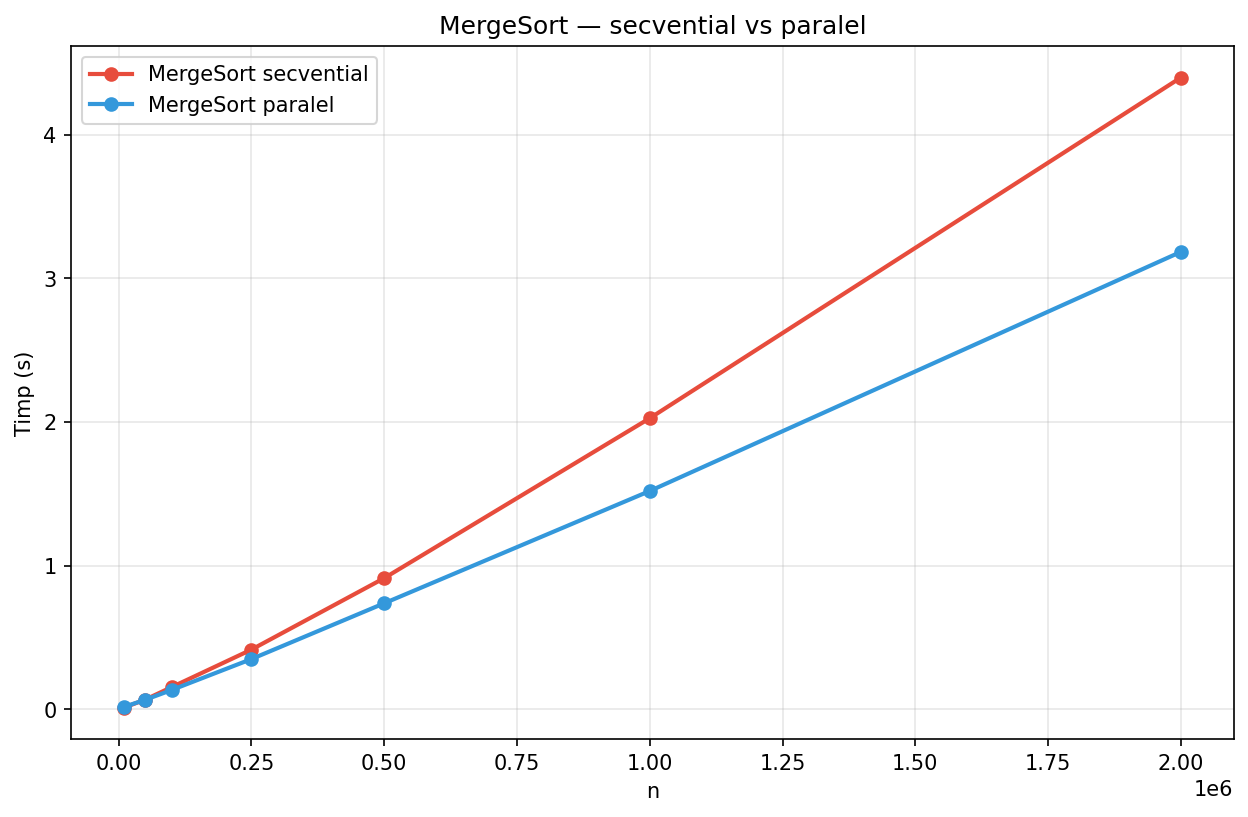
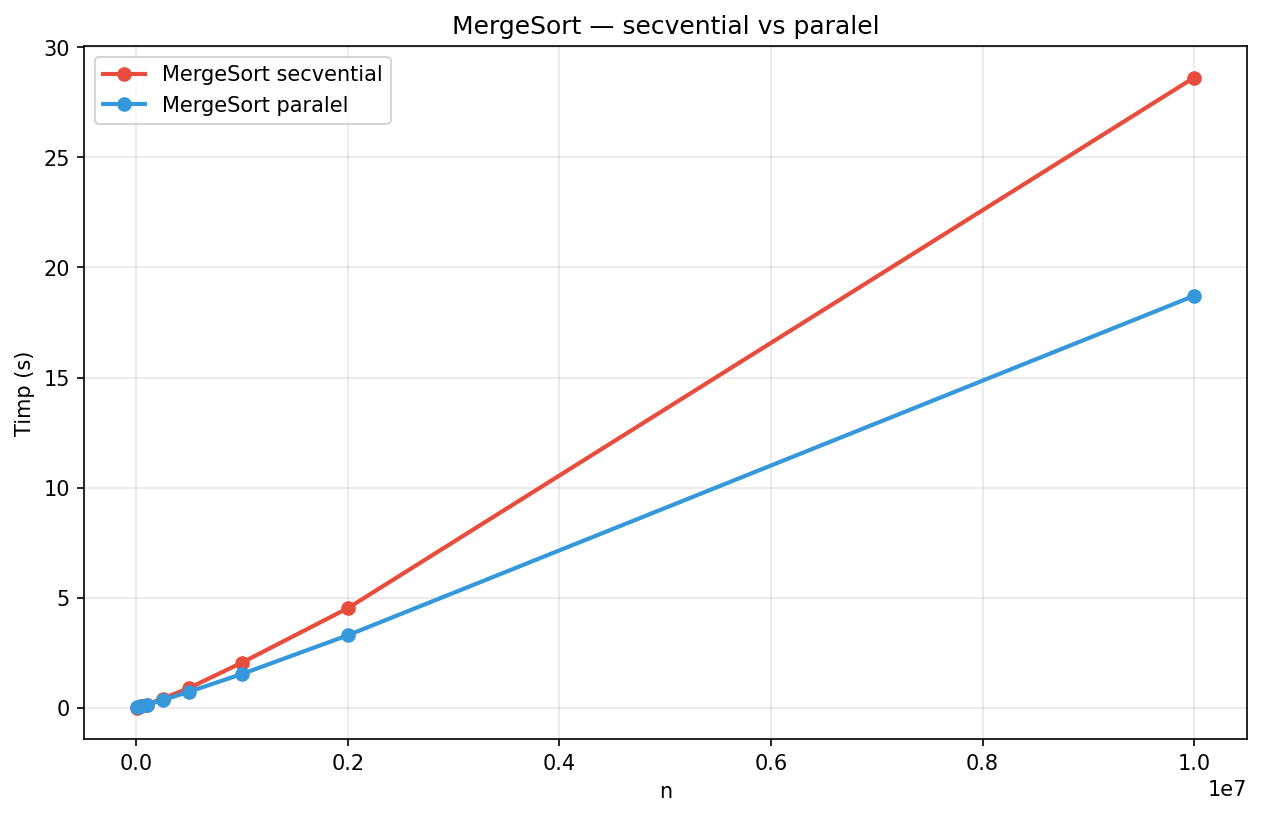
added 10M benchmark

diff --git a/benchmark_merge.py b/benchmark_merge.py
@@ -5,7 +5,7 @@ import csv
 from sorts.merge import *
 
 
-SIZES = [10_000, 50_000, 100_000, 250_000, 500_000, 1_000_000, 2_000_000]
+SIZES = [10_000, 50_000, 100_000, 250_000, 500_000, 1_000_000, 2_000_000, 10_000_000]
 RUNS = 3
 
 
